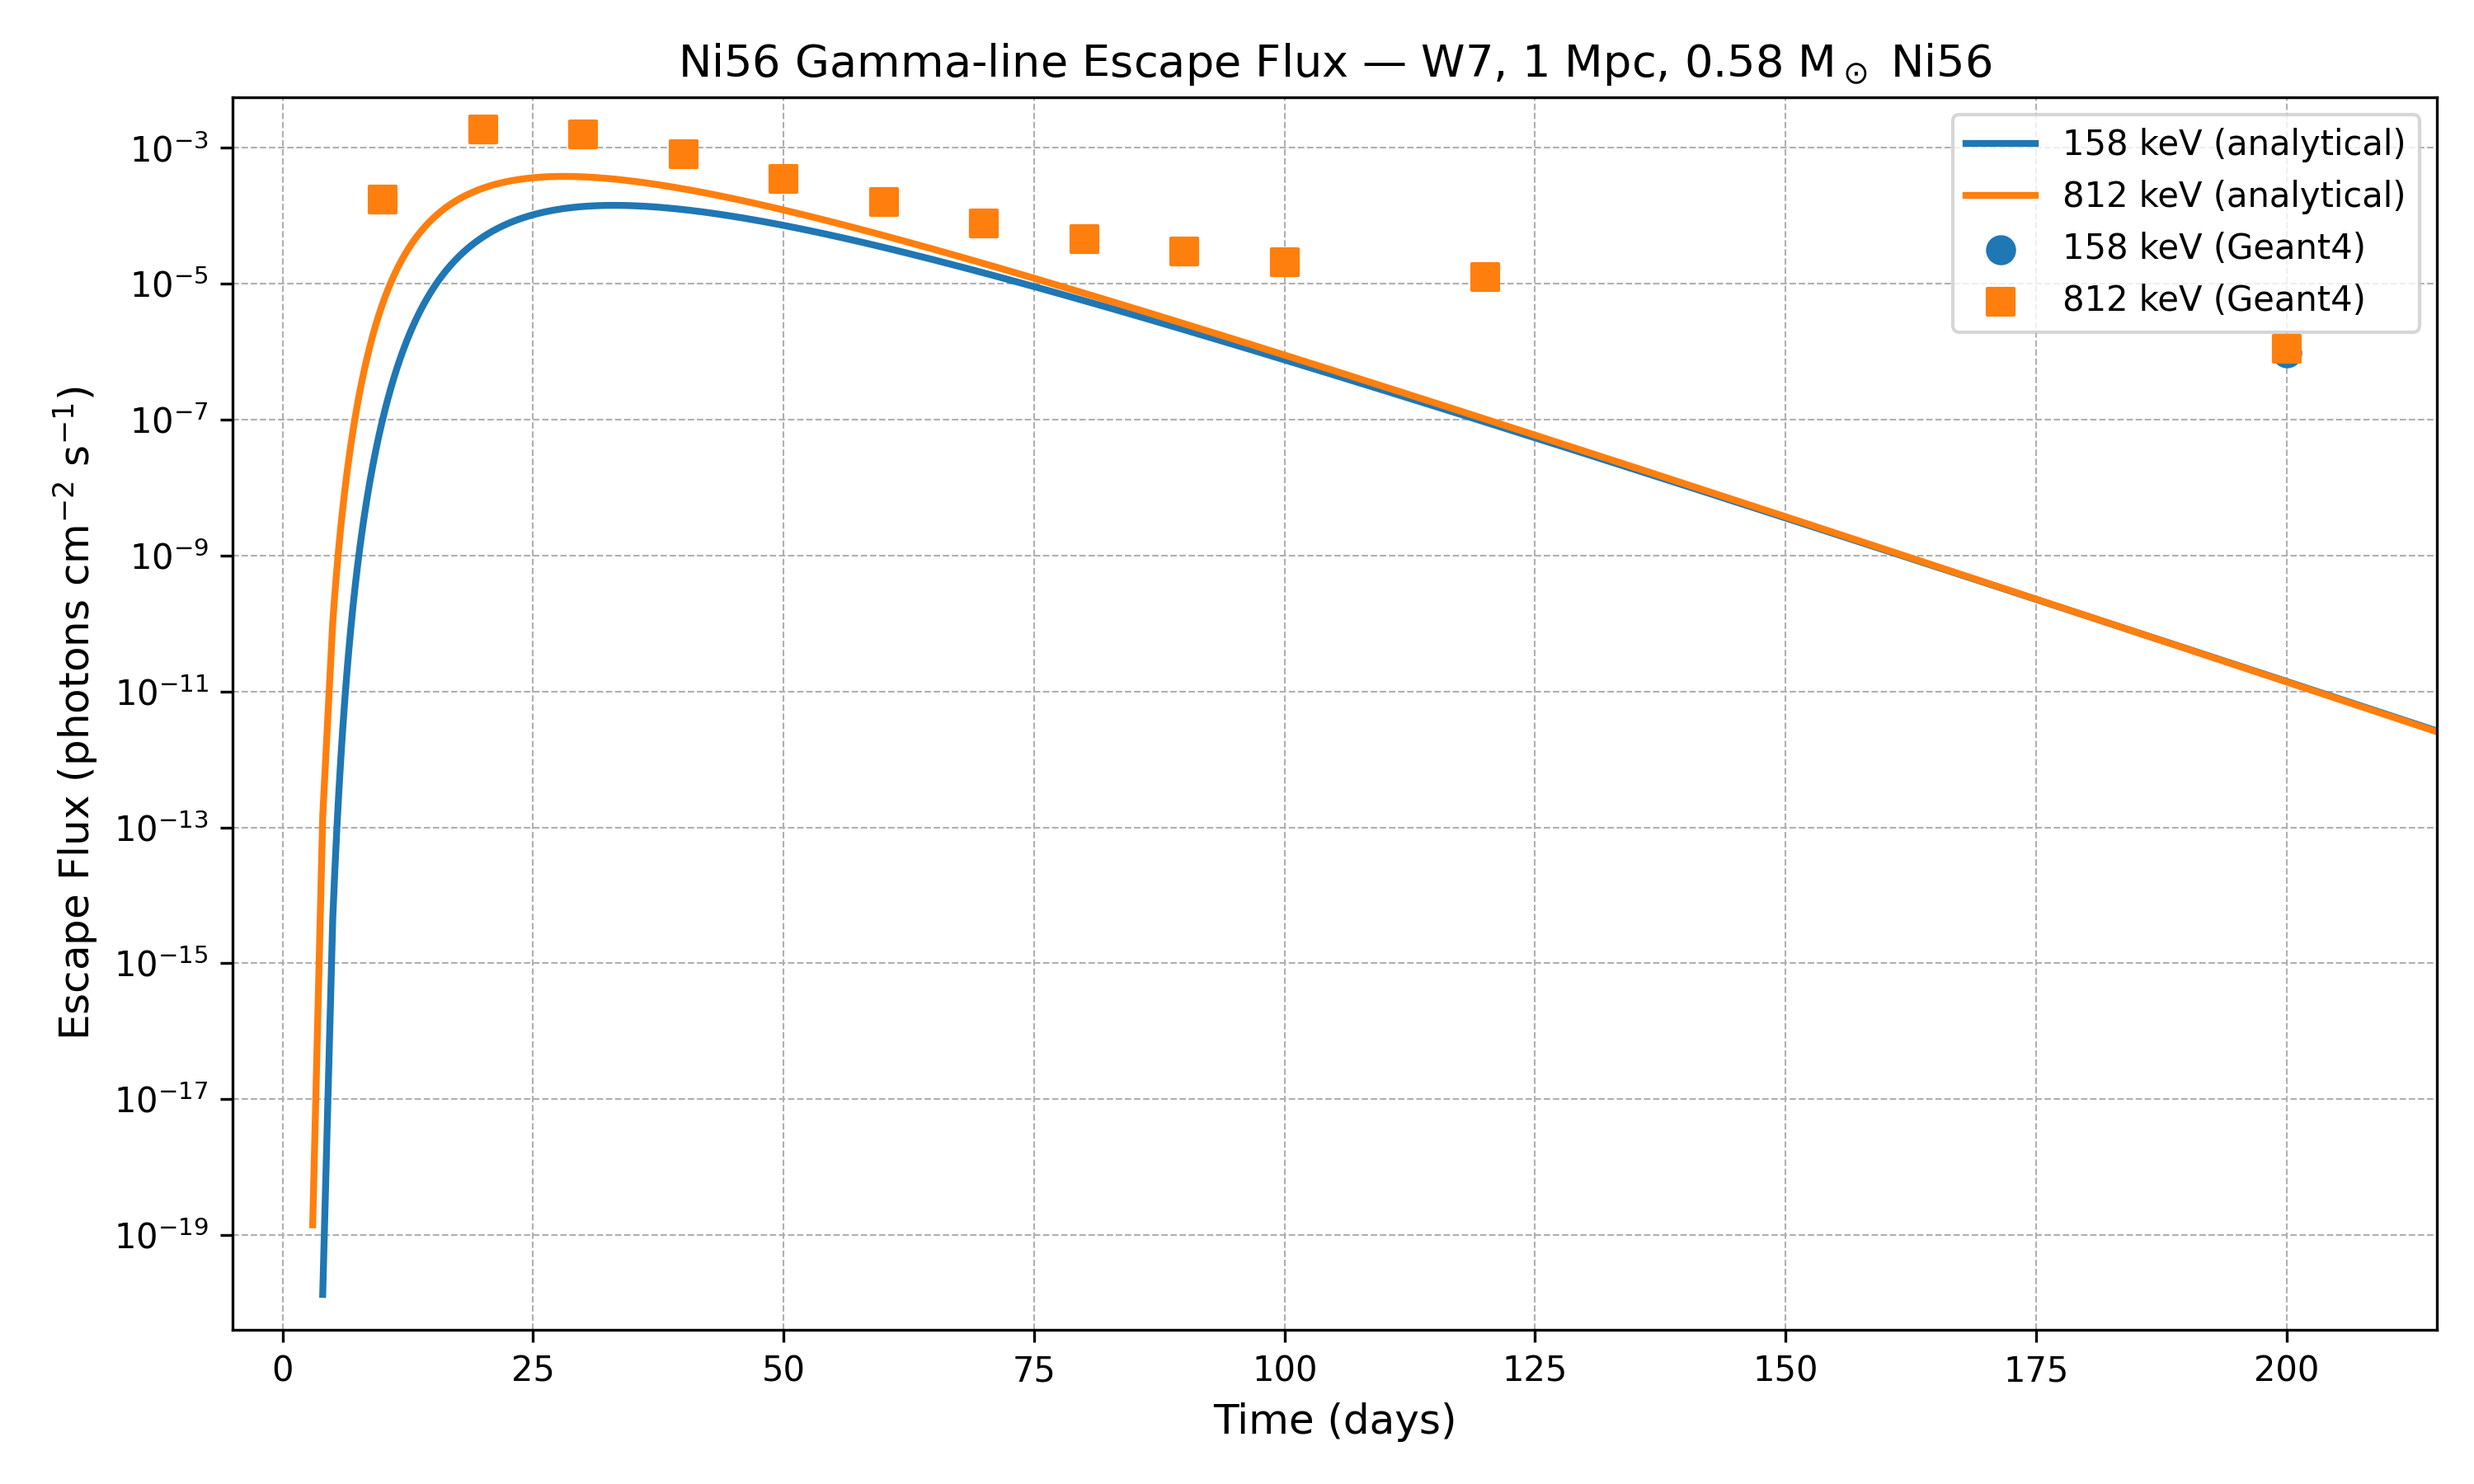
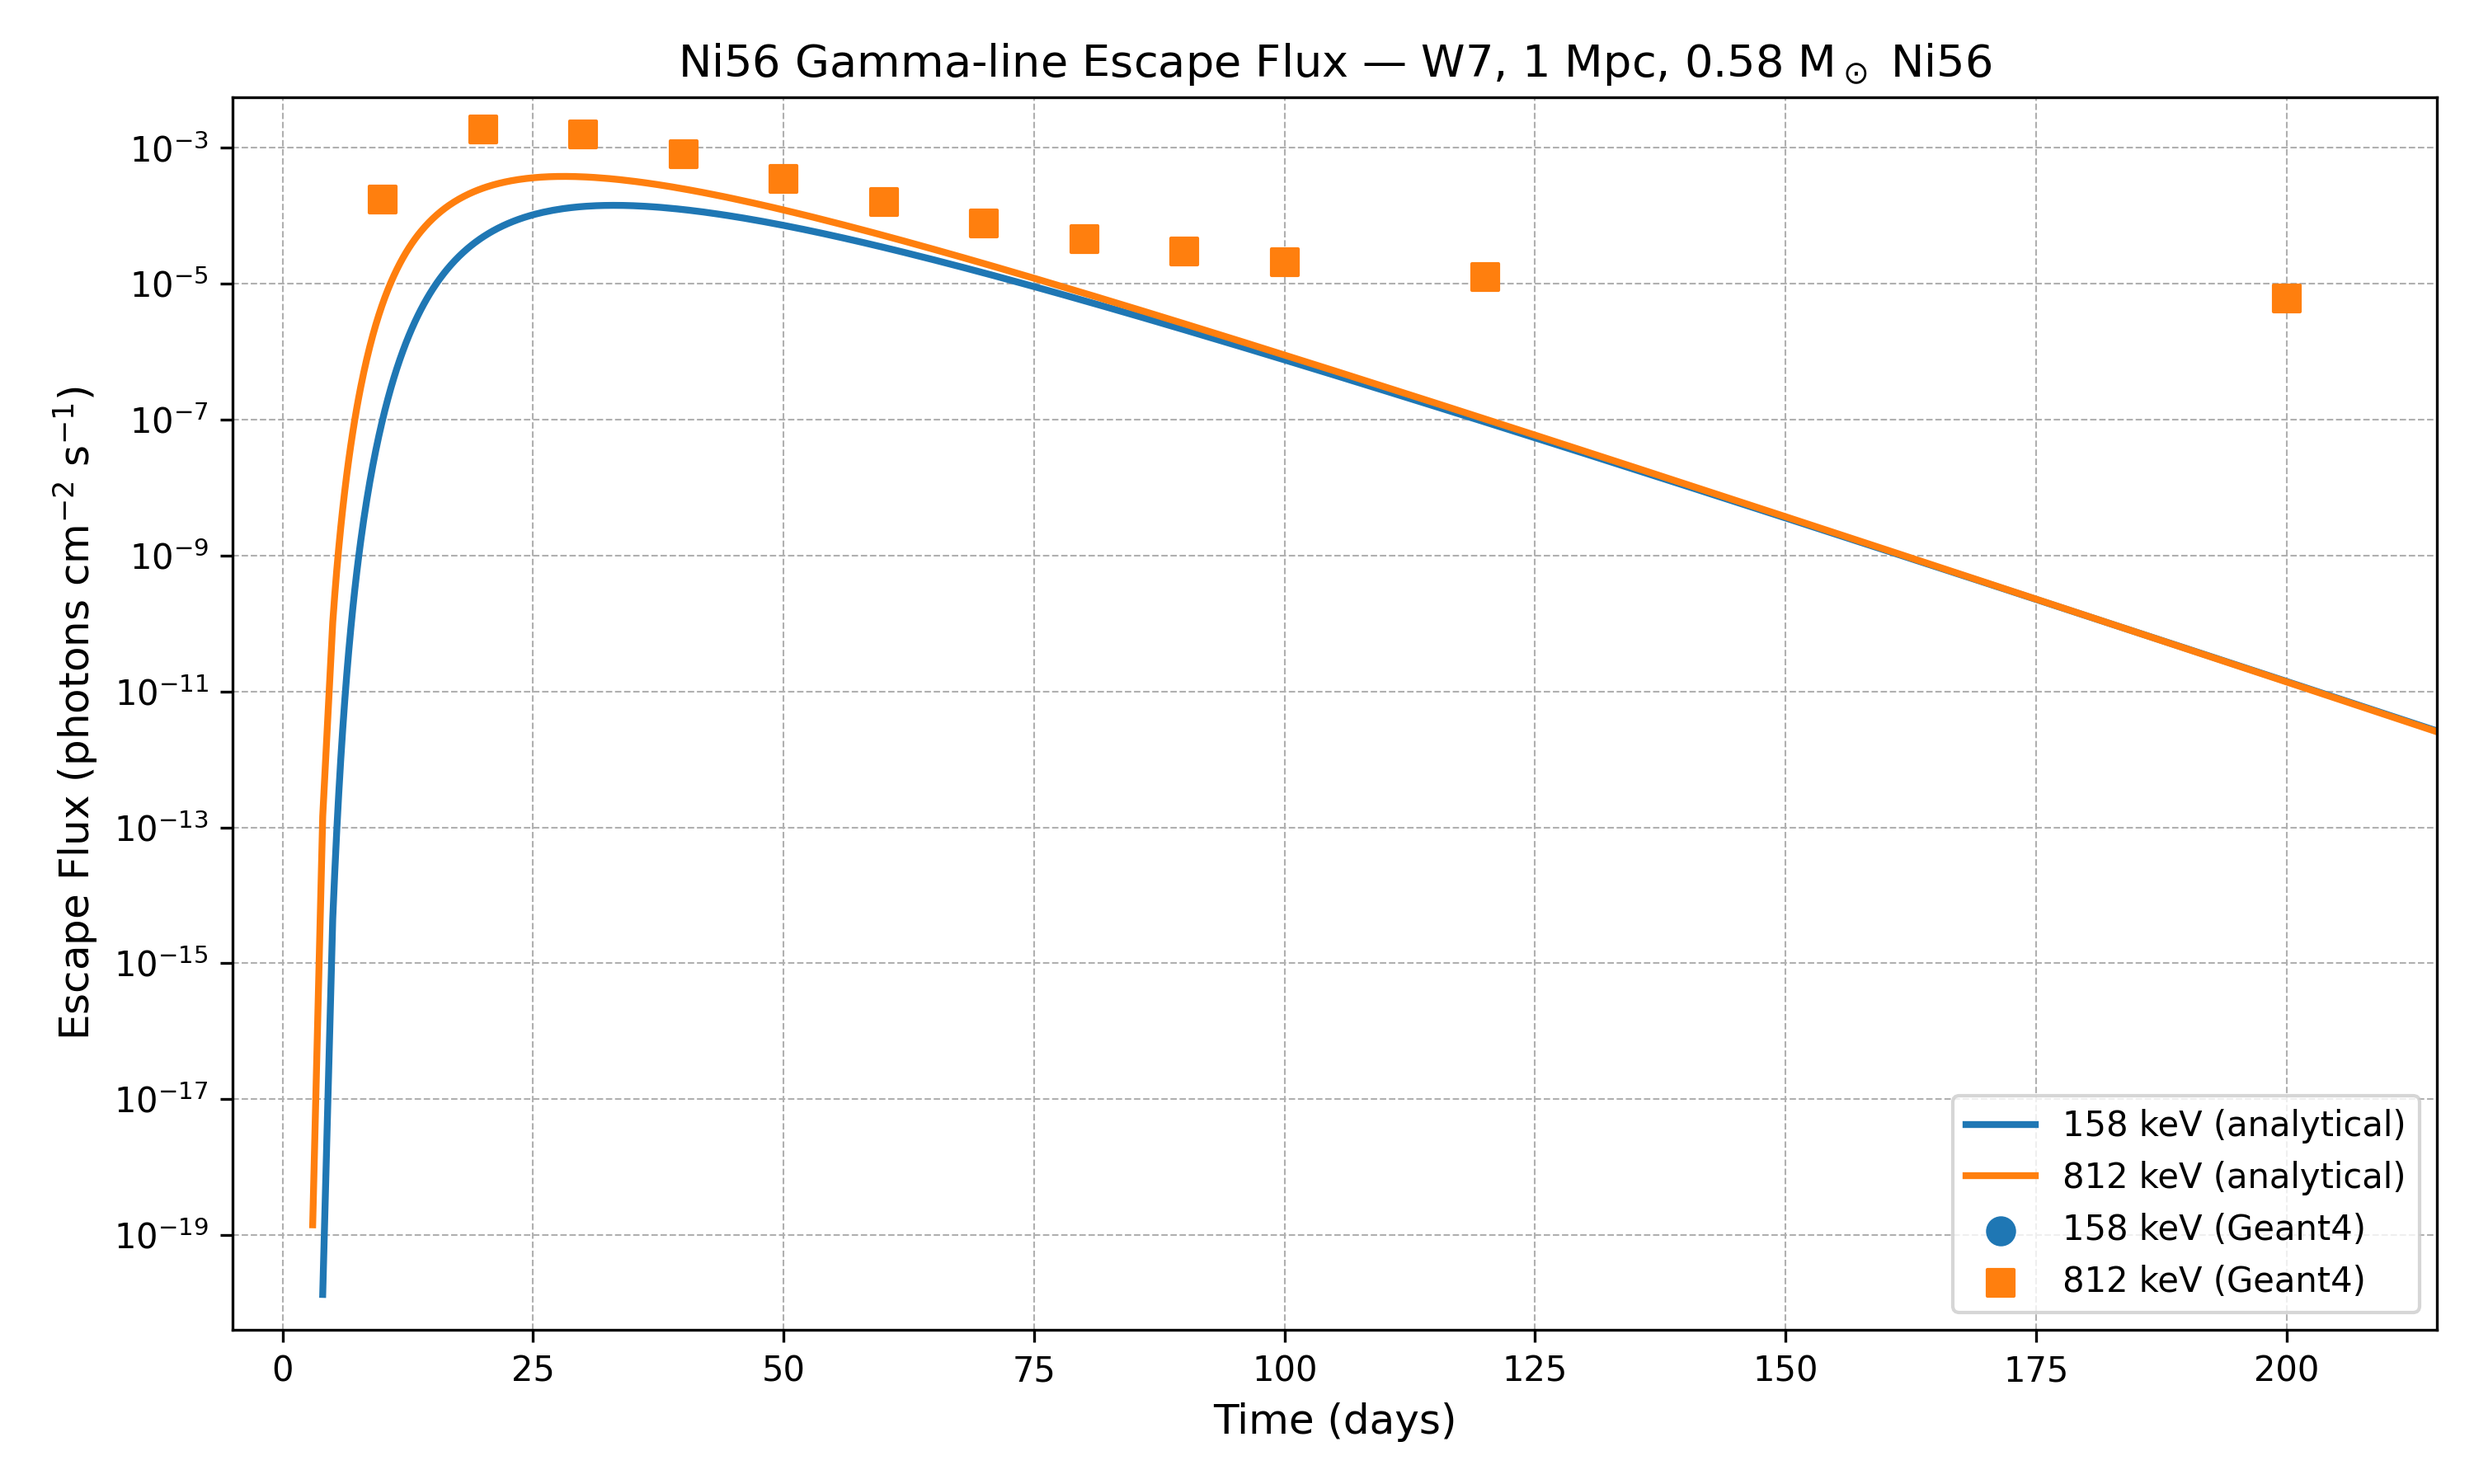
1e6 with python script updated

Changed region(s): [[0.775, 0.0622, 0.992, 0.2489], [0.775, 0.7467, 0.992, 0.9022]]

diff --git a/Python Files/combineFiles.py b/Python Files/combineFiles.py
@@ -159,7 +159,7 @@ for f in infoFiles:
                 cobaltDecays += float(line.split(':')[1].strip())
             elif 'Total Decay Photon Energy (MeV):' in line:
                 totalDecayPhotonEnergy += float(line.split(':')[1].strip())
-            elif '158.58 keV Decay Photons:' in line:
+            elif '158.38 keV Decay Photons:' in line:
                 count158keV += float(line.split(':')[1].strip())
             elif '811.85 keV Decay Photons:' in line:
                 count812keV += float(line.split(':')[1].strip())
@@ -167,7 +167,7 @@ for f in infoFiles:
                 count847keV += float(line.split(':')[1].strip())
             elif '1238.3 keV Decay Photons:' in line:
                 count1238keV += float(line.split(':')[1].strip())
-            elif '158.58 keV Direct Escape:' in line:
+            elif '158.38 keV Direct Escape:' in line:
                 escape158keV += float(line.split(':')[1].strip())
             elif '811.85 keV Direct Escape:' in line:
                 escape812keV += float(line.split(':')[1].strip())
@@ -175,7 +175,7 @@ for f in infoFiles:
                 escape847keV += float(line.split(':')[1].strip())
             elif '1238.3 keV Direct Escape:' in line:
                 escape1238keV += float(line.split(':')[1].strip())
-            elif '158.58 keV Decay Photons (Nickel only):' in line:
+            elif '158.38 keV Decay Photons (Nickel only):' in line:
                 count158keVNickelOnly += float(line.split(':')[1].strip())
             elif '811.85 keV Decay Photons (Nickel only):' in line:
                 count812keVNickelOnly += float(line.split(':')[1].strip())
@@ -183,7 +183,7 @@ for f in infoFiles:
                 count847keVCobaltOnly += float(line.split(':')[1].strip())
             elif '1238.3 keV Decay Photons (Cobalt only):' in line:
                 count1238keVCobaltOnly += float(line.split(':')[1].strip())
-            elif '158.58 keV Direct Escape (Nickel only):' in line:
+            elif '158.38 keV Direct Escape (Nickel only):' in line:
                 escape158keVNickelOnly += float(line.split(':')[1].strip())
             elif '811.85 keV Direct Escape (Nickel only):' in line:
                 escape812keVNickelOnly += float(line.split(':')[1].strip())
@@ -209,19 +209,19 @@ with open('../Combined_info_summary.txt', 'w') as out:
     out.write(f"Nickel Decays: {nickelDecays}\n")
     out.write(f"Cobalt Decays: {cobaltDecays}\n\n")
     out.write(f"Total Decay Photon Energy (MeV): {totalDecayPhotonEnergy}\n\n")
-    out.write(f"158.58 keV Decay Photons: {count158keV}\n")
+    out.write(f"158.38 keV Decay Photons: {count158keV}\n")
     out.write(f"811.85 keV Decay Photons: {count812keV}\n")
     out.write(f"847 keV Decay Photons: {count847keV}\n")
     out.write(f"1238.3 keV Decay Photons: {count1238keV}\n")
-    out.write(f"158.58 keV Direct Escape: {escape158keV}\n")
+    out.write(f"158.38 keV Direct Escape: {escape158keV}\n")
     out.write(f"811.85 keV Direct Escape: {escape812keV}\n")
     out.write(f"847 keV Direct Escape: {escape847keV}\n")
     out.write(f"1238.3 keV Direct Escape: {escape1238keV}\n\n")
-    out.write(f"158.58 keV Decay Photons (Nickel only): {count158keVNickelOnly}\n")
+    out.write(f"158.38 keV Decay Photons (Nickel only): {count158keVNickelOnly}\n")
     out.write(f"811.85 keV Decay Photons (Nickel only): {count812keVNickelOnly}\n")
     out.write(f"847 keV Decay Photons (Cobalt only): {count847keVCobaltOnly}\n")
     out.write(f"1238.3 keV Decay Photons (Cobalt only): {count1238keVCobaltOnly}\n")
-    out.write(f"158.58 keV Direct Escape (Nickel only): {escape158keVNickelOnly}\n")
+    out.write(f"158.38 keV Direct Escape (Nickel only): {escape158keVNickelOnly}\n")
     out.write(f"811.85 keV Direct Escape (Nickel only): {escape812keVNickelOnly}\n")
     out.write(f"847 keV Direct Escape (Cobalt only): {escape847keVCobaltOnly}\n")
     out.write(f"1238.3 keV Direct Escape (Cobalt only): {escape1238keVCobaltOnly}\n\n")
